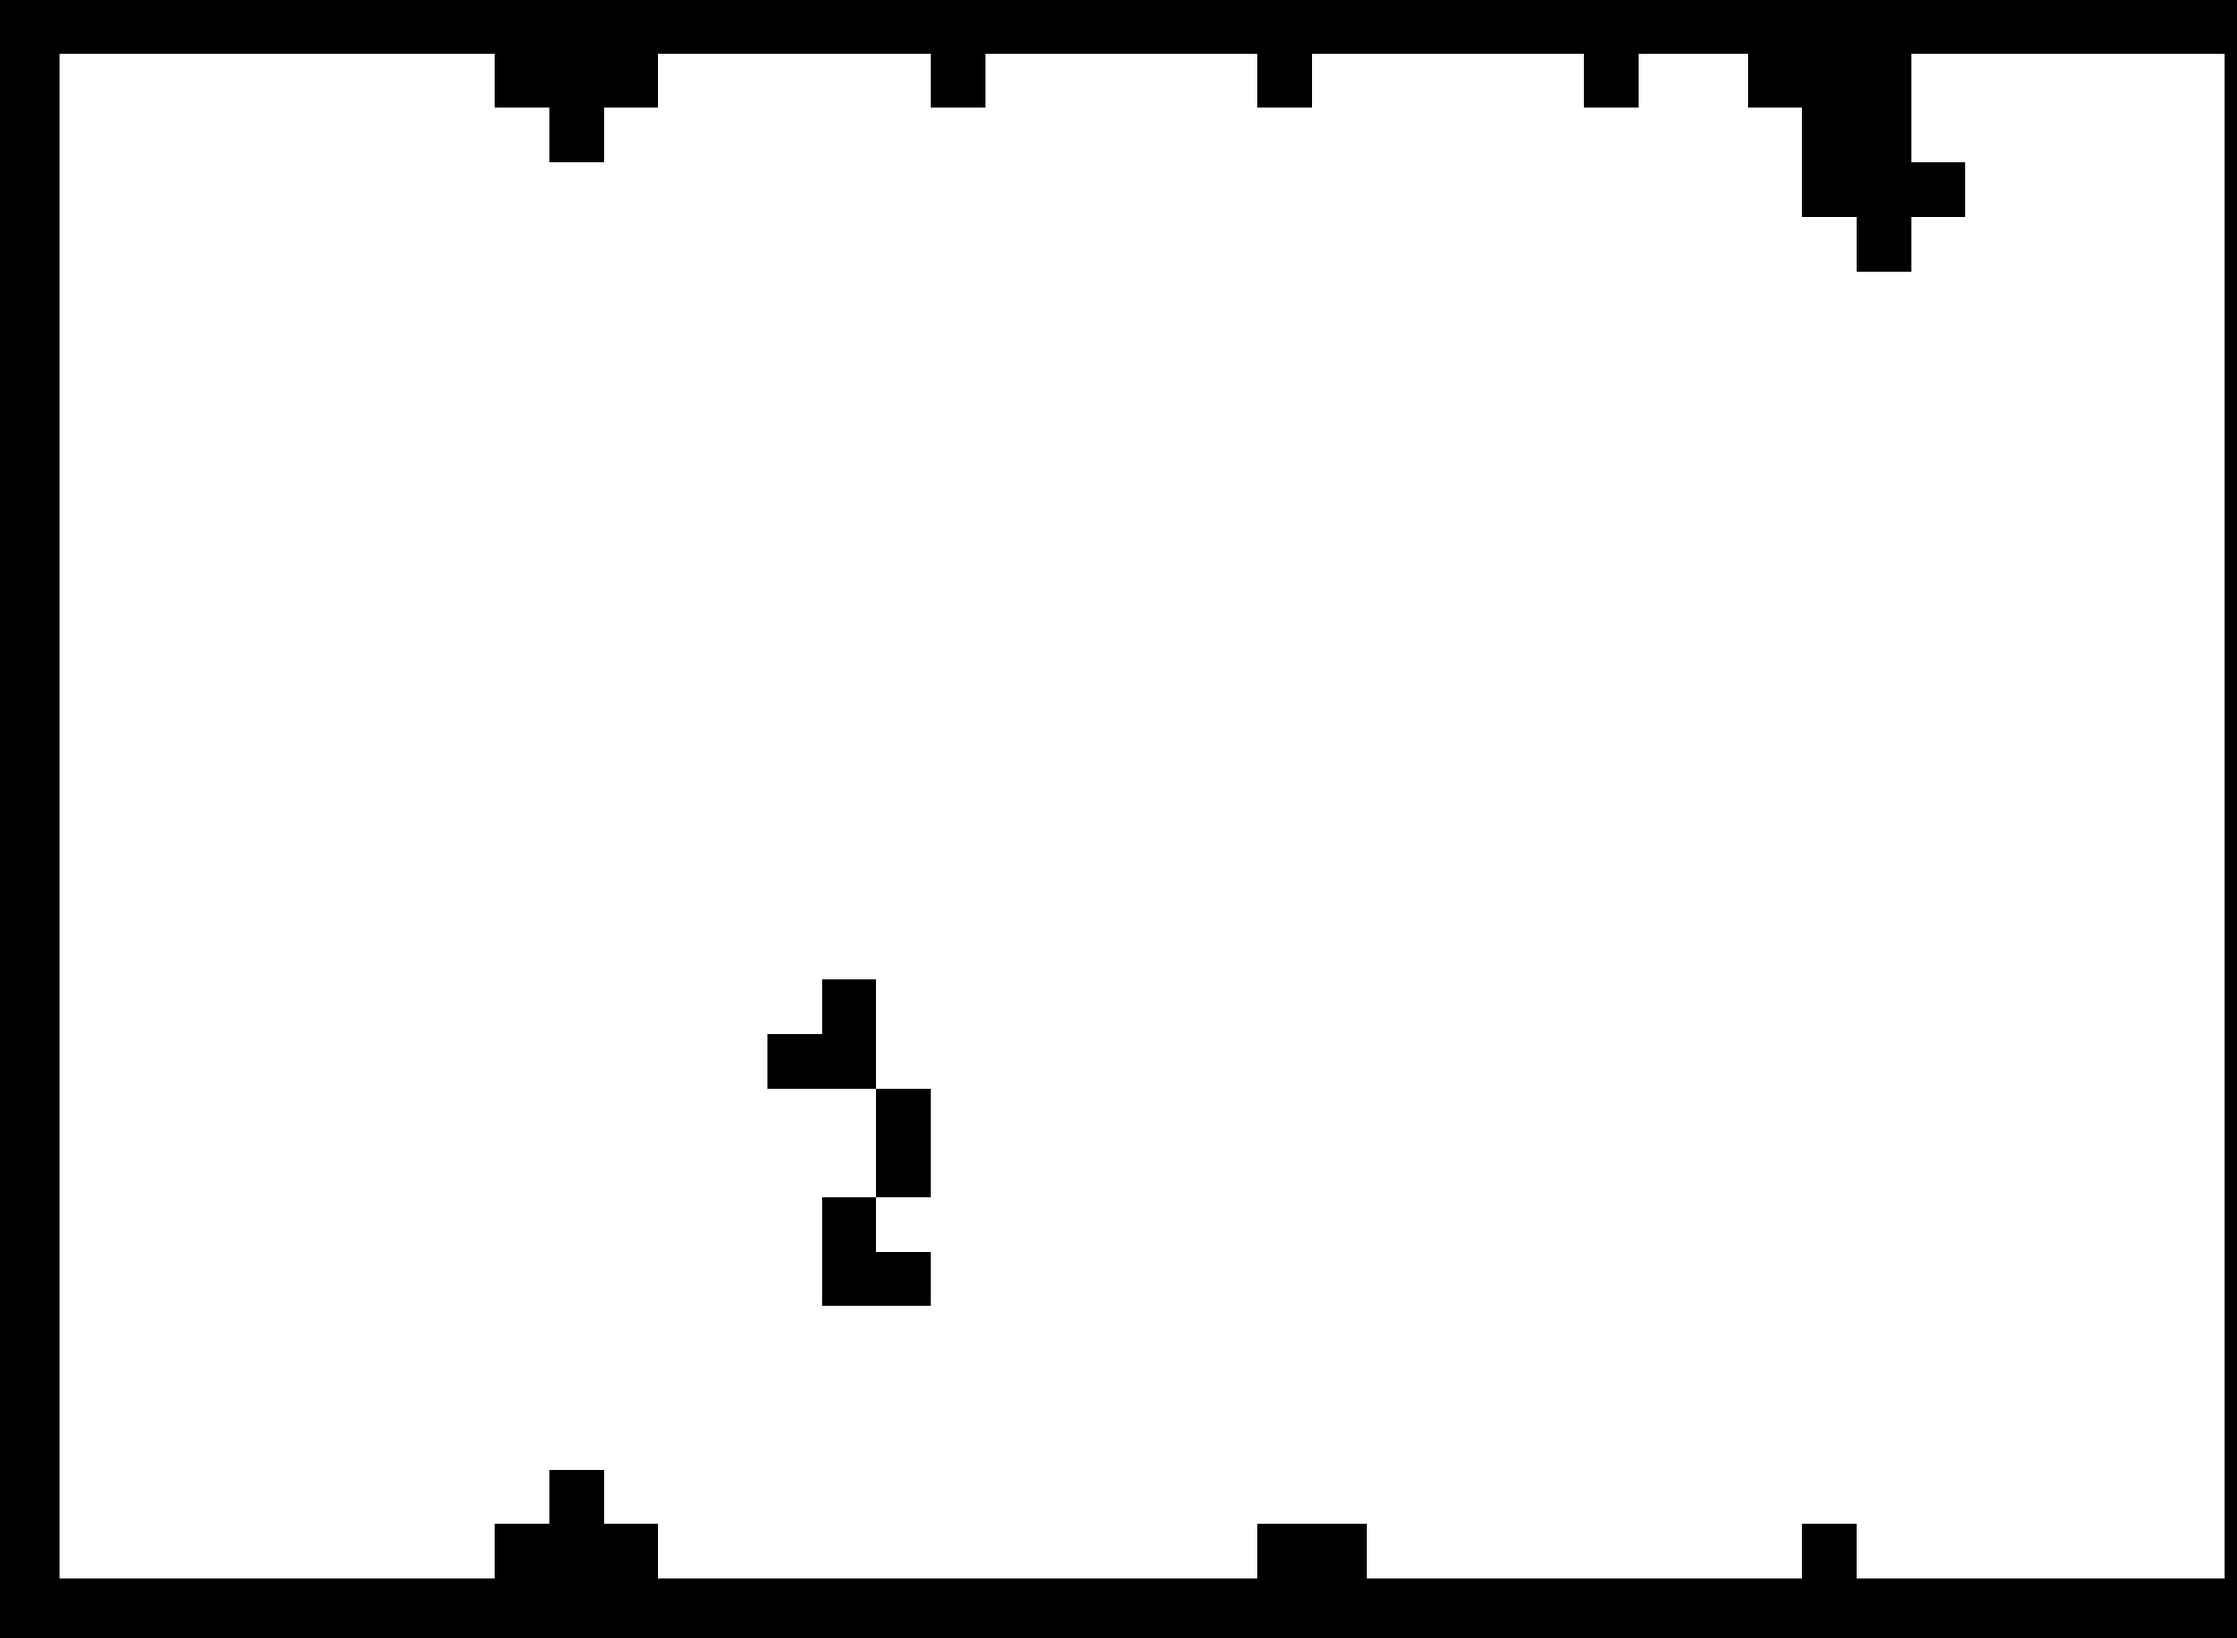
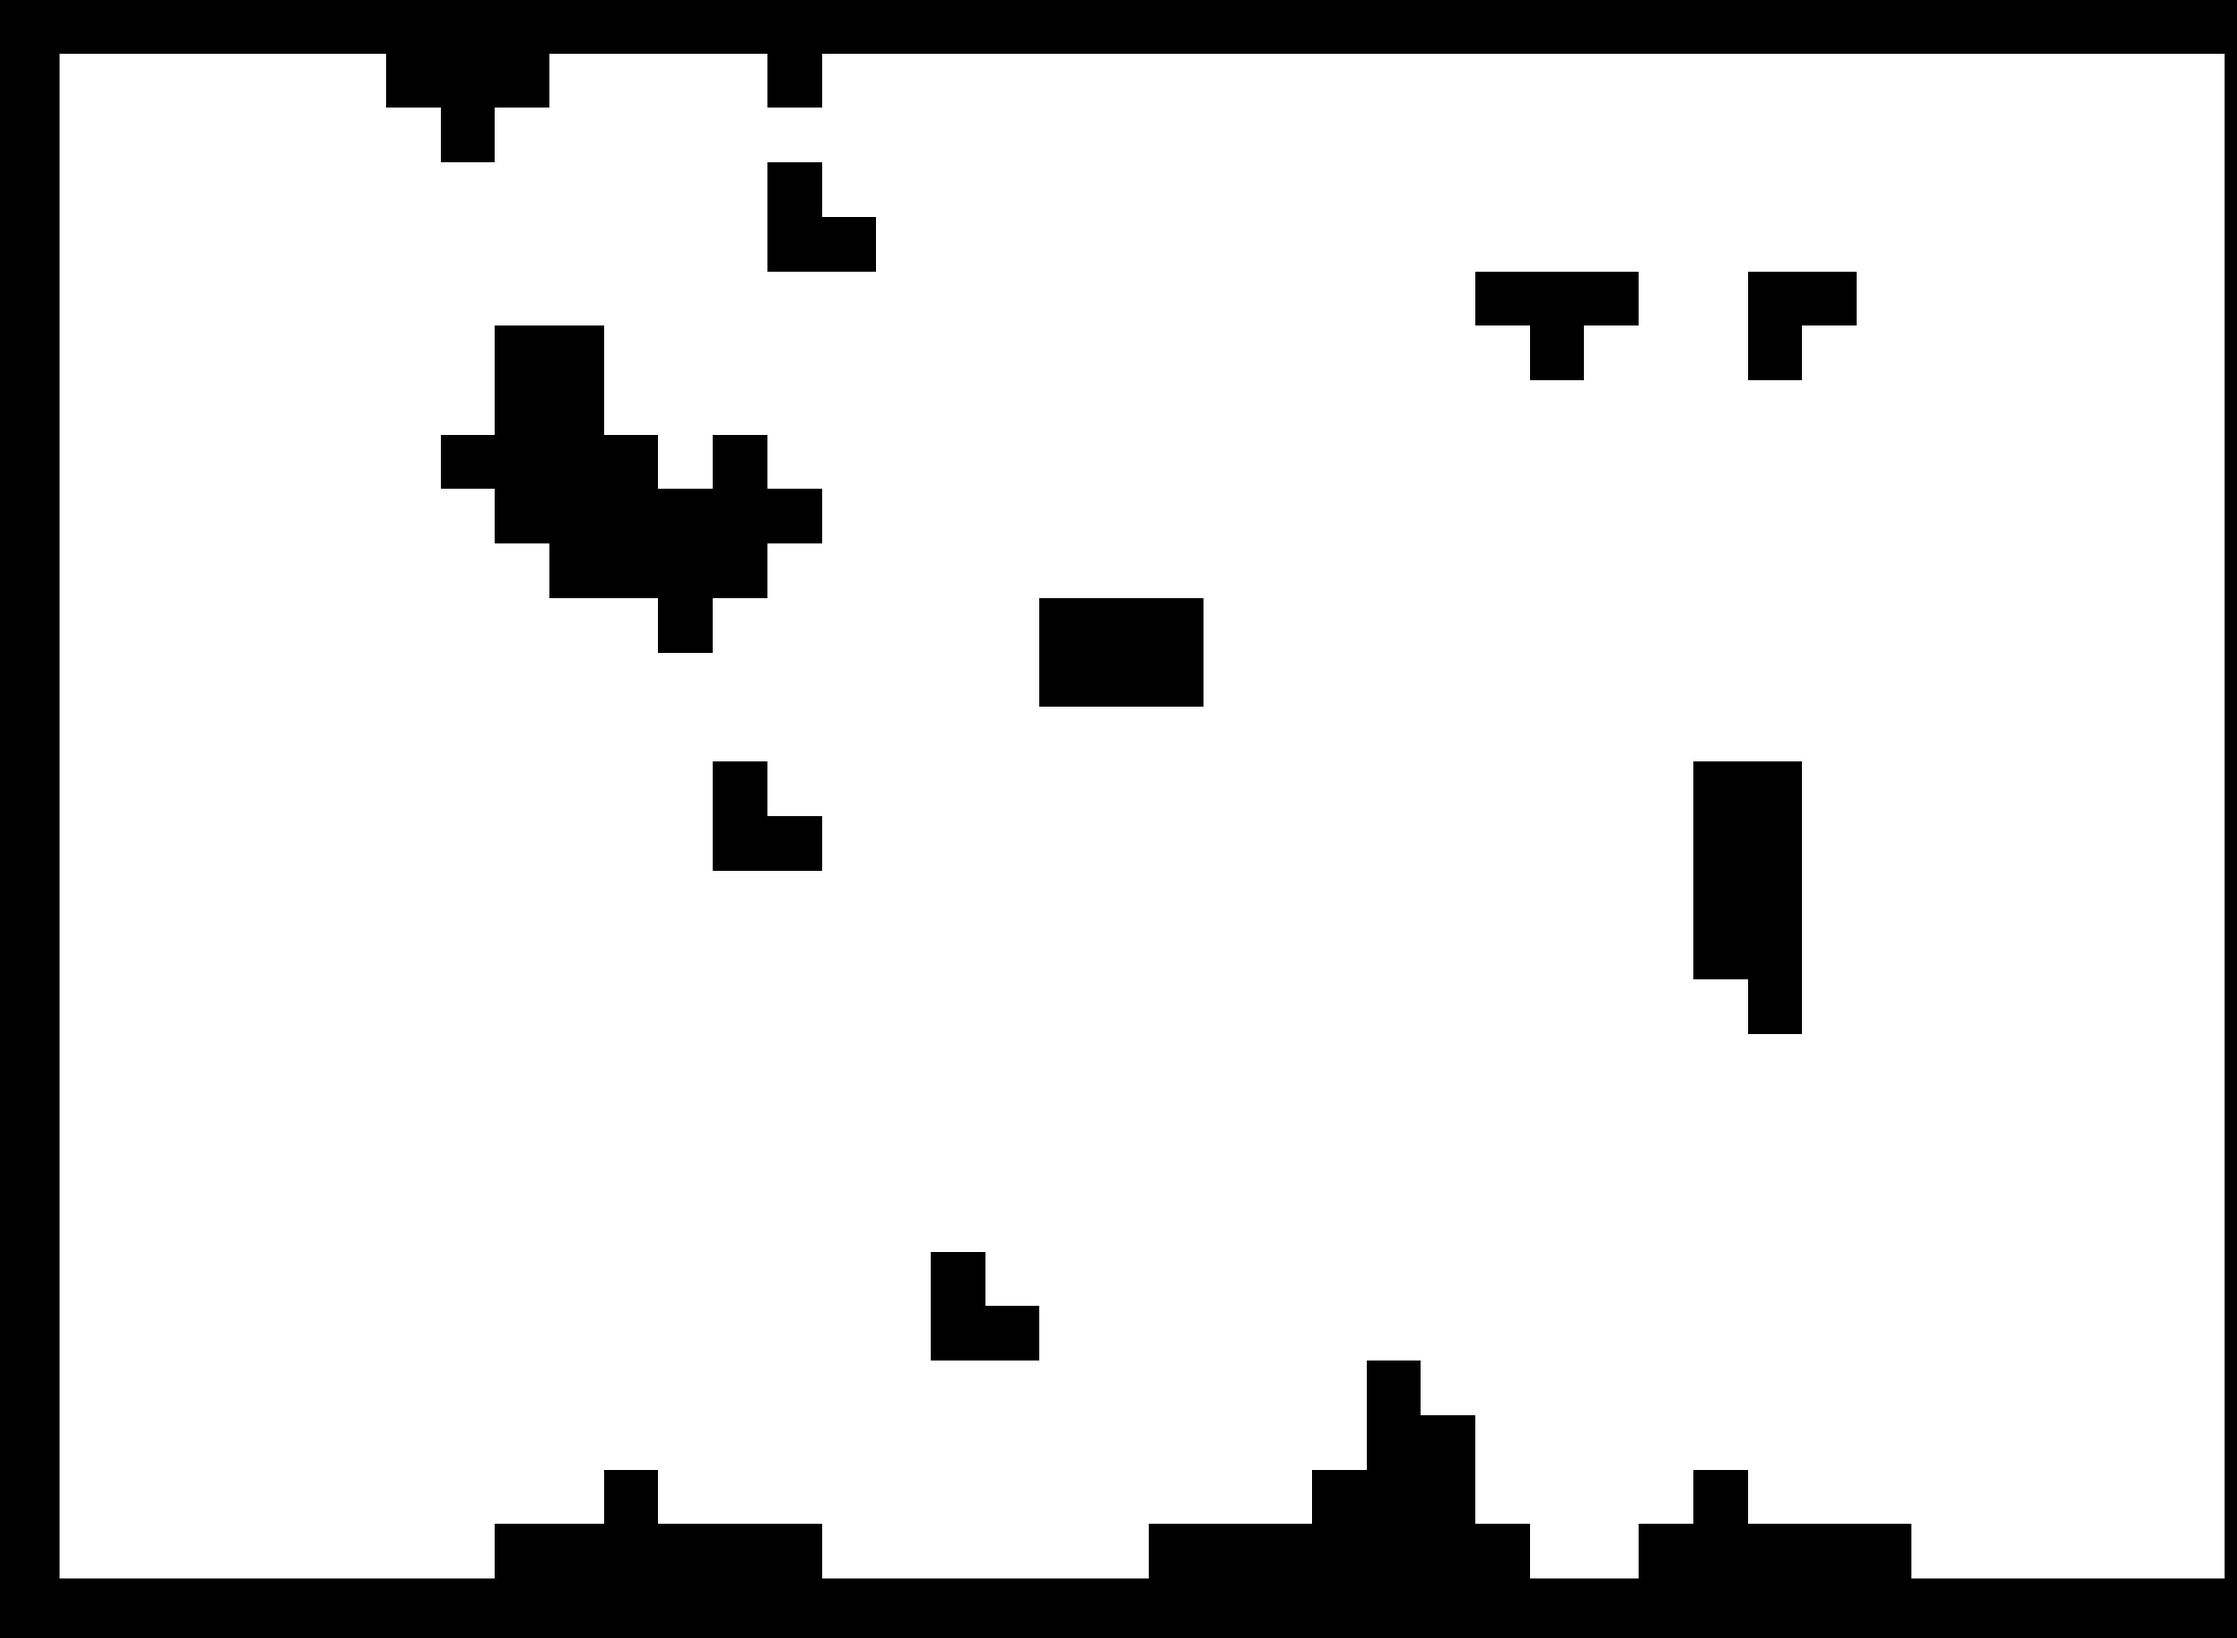
updated DNN for angle calculation rather than forces

diff --git a/main_robot_simulateObs.py b/main_robot_simulateObs.py
@@ -11,9 +11,11 @@ import math as m
 from robotClass_simulateObs import Graphics,Robot,LaserScan,distance
 from draw_background import draw_background
 from tensorflow import keras
+from tensorflow.compat.v1 import disable_eager_execution
 import joblib
 import numpy as np
-f = 'grid_files/grid_5.npy'
+disable_eager_execution()
+f = 'grid_files/grid_1.npy'
 mode = 'dnn' #Use 'human' for human play, 'force' for Potential field, ...
 #'dnn' for predicting using a DNN and anything else for random walk
 
